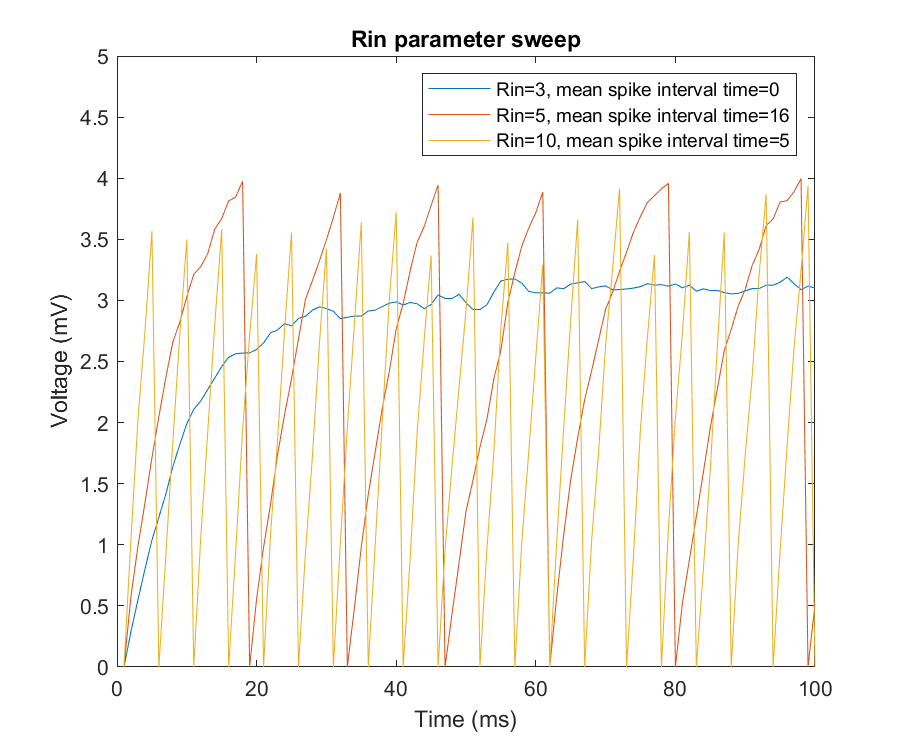
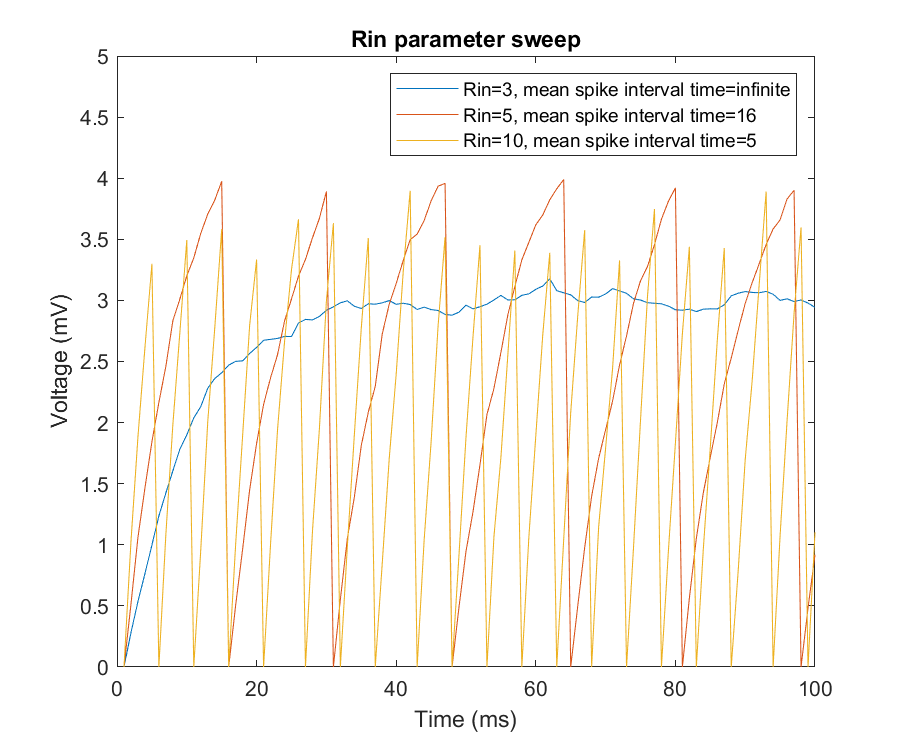
New images and implemented pError

Changed region(s): [[0.1244, 0.2453, 0.9333, 0.8893], [0.4978, 0.092, 0.8711, 0.2147]]

diff --git a/Exercise 1/parameterSweepPlot.m b/Exercise 1/parameterSweepPlot.m
@@ -17,7 +17,7 @@ for n = 1 : 3
     hold on;
     asp = round(mean(isi(tspike))); % mean spike interval time 
     if isnan(asp)
-        asp = 0;
+        asp = "infinite";
     end
     legendentry =  "Rin="+Rins(n)+", mean spike interval time="+asp;
     legends = [legends, legendentry];
@@ -46,7 +46,7 @@ for n = 1 : 3
     hold on;
     asp = round(mean(isi(tspike))); % mean spike interval time 
     if isnan(asp)
-        asp = 0;
+        asp = "infinite";
     end
     legendentry =  "tau="+taus(n)+", mean spike interval time="+asp;
     legends = [legends, legendentry];
@@ -74,14 +74,14 @@ for n = 1 : 3
     hold on;
     asp = round(mean(isi(tspike))); % mean spike interval time 
     if isnan(asp)
-        asp = 0;
+        asp = "infinite";
     end
     legendentry =  "theta="+thetas(n)+", mean spike interval time="+asp;
     legends = [legends, legendentry];
 end
 
 % Make it look decent
-title("tau parameter sweep");
+title("theta parameter sweep");
 legend(legends);
 ylim([0 5]);
 ylabel("Voltage (mV)"); % Set the y axis label

diff --git a/Exercise 2/summedInput.m b/Exercise 2/summedInput.m
@@ -1,7 +1,3 @@
 function [weightedSum] = summedInput(x, W, b)
-    weightedSum = 0;
-    for i = 1 : length(x)
-        weightedSum = weightedSum + x(i) * W(i);
-    end
-    % Do we just return the sum or do we apply bias somehow?
+    weightedSum = sum([x -1] .* [W b]);
 end

diff --git a/Exercise 2/stepA.m b/Exercise 2/stepA.m
@@ -1,4 +1,3 @@
-function [output] = stepA()
-    output = 0;
-    % Not finished yet, what does this function do?
+function [output] = stepA(input)
+    output = (input >= 0);
 end

diff --git a/Exercise 2/pError.m b/Exercise 2/pError.m
@@ -1,4 +1,3 @@
 function [error] = pError(t, o)
-    error = 0;
-    % Not finished yet
+    error = sum(abs(t - o));
 end
